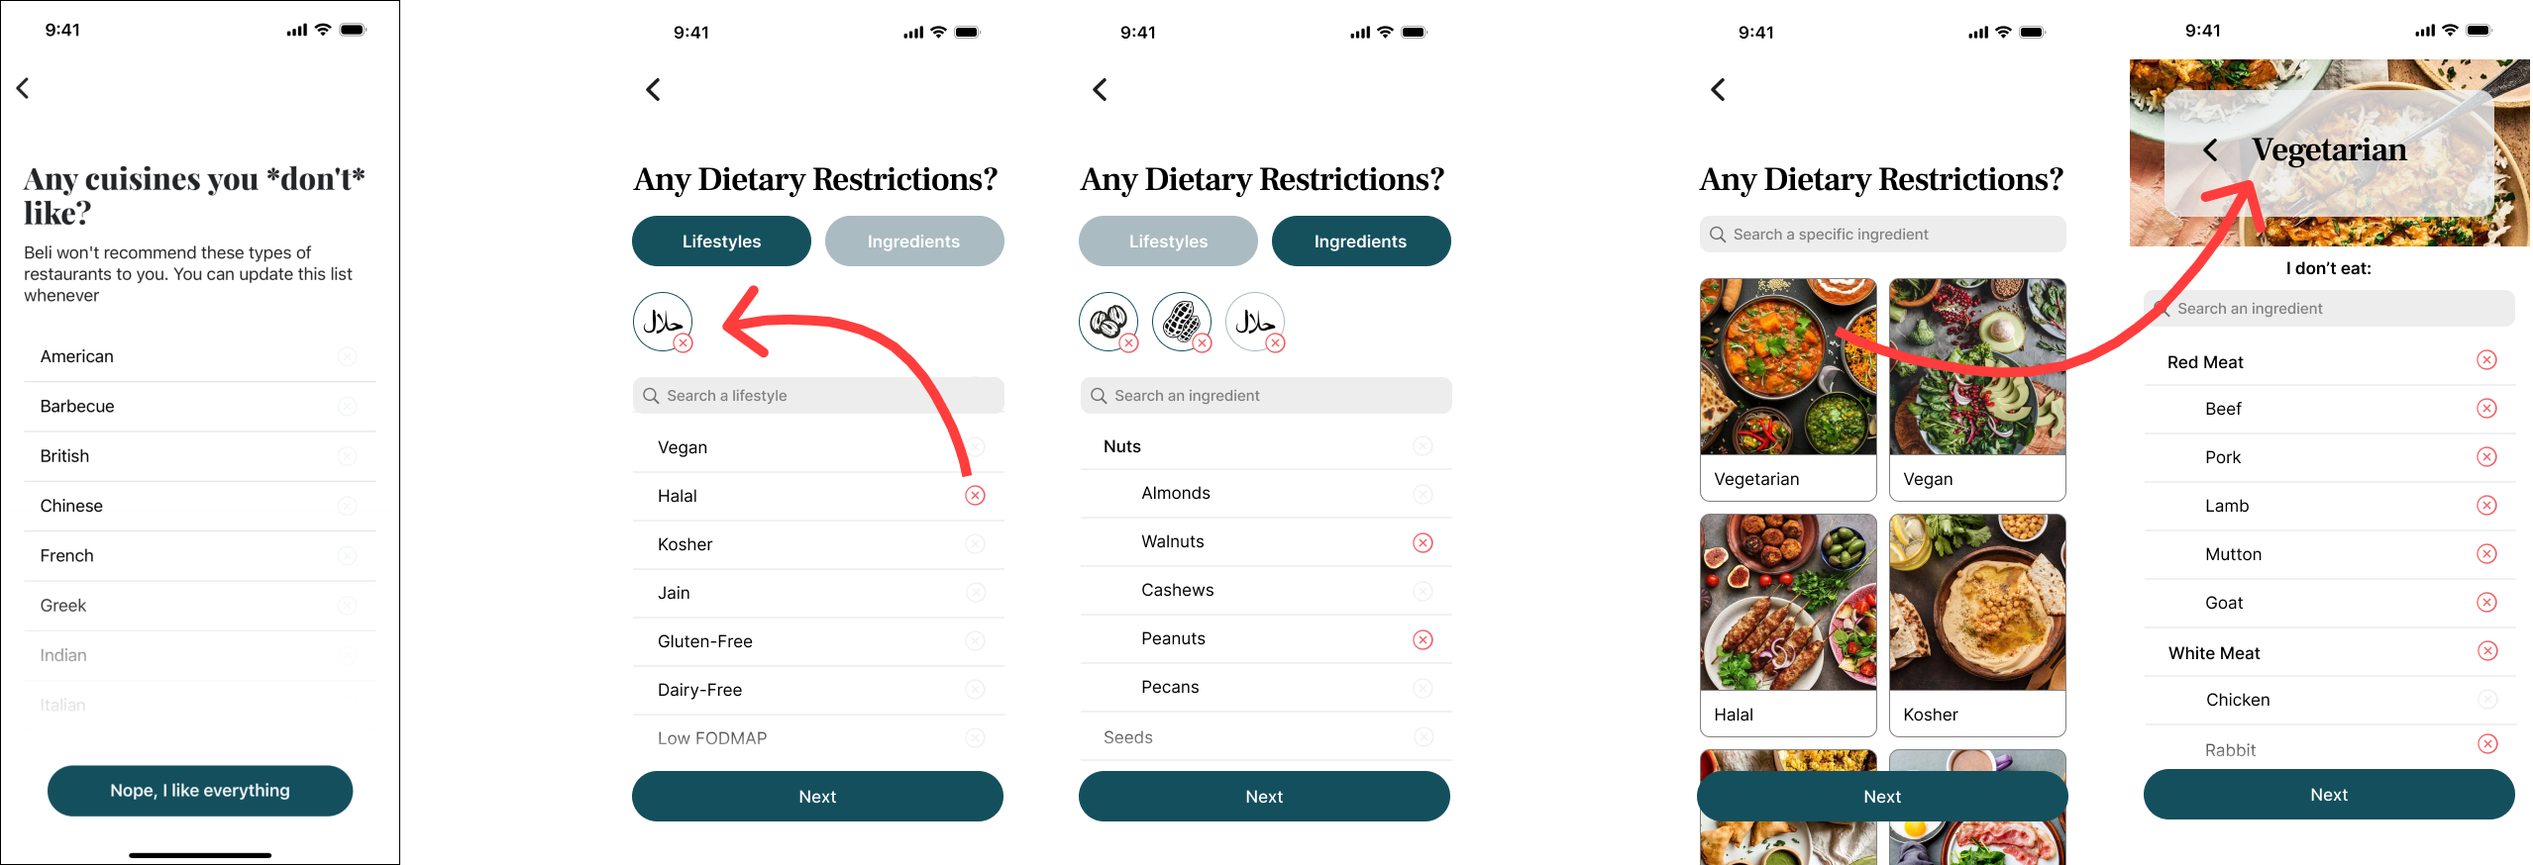
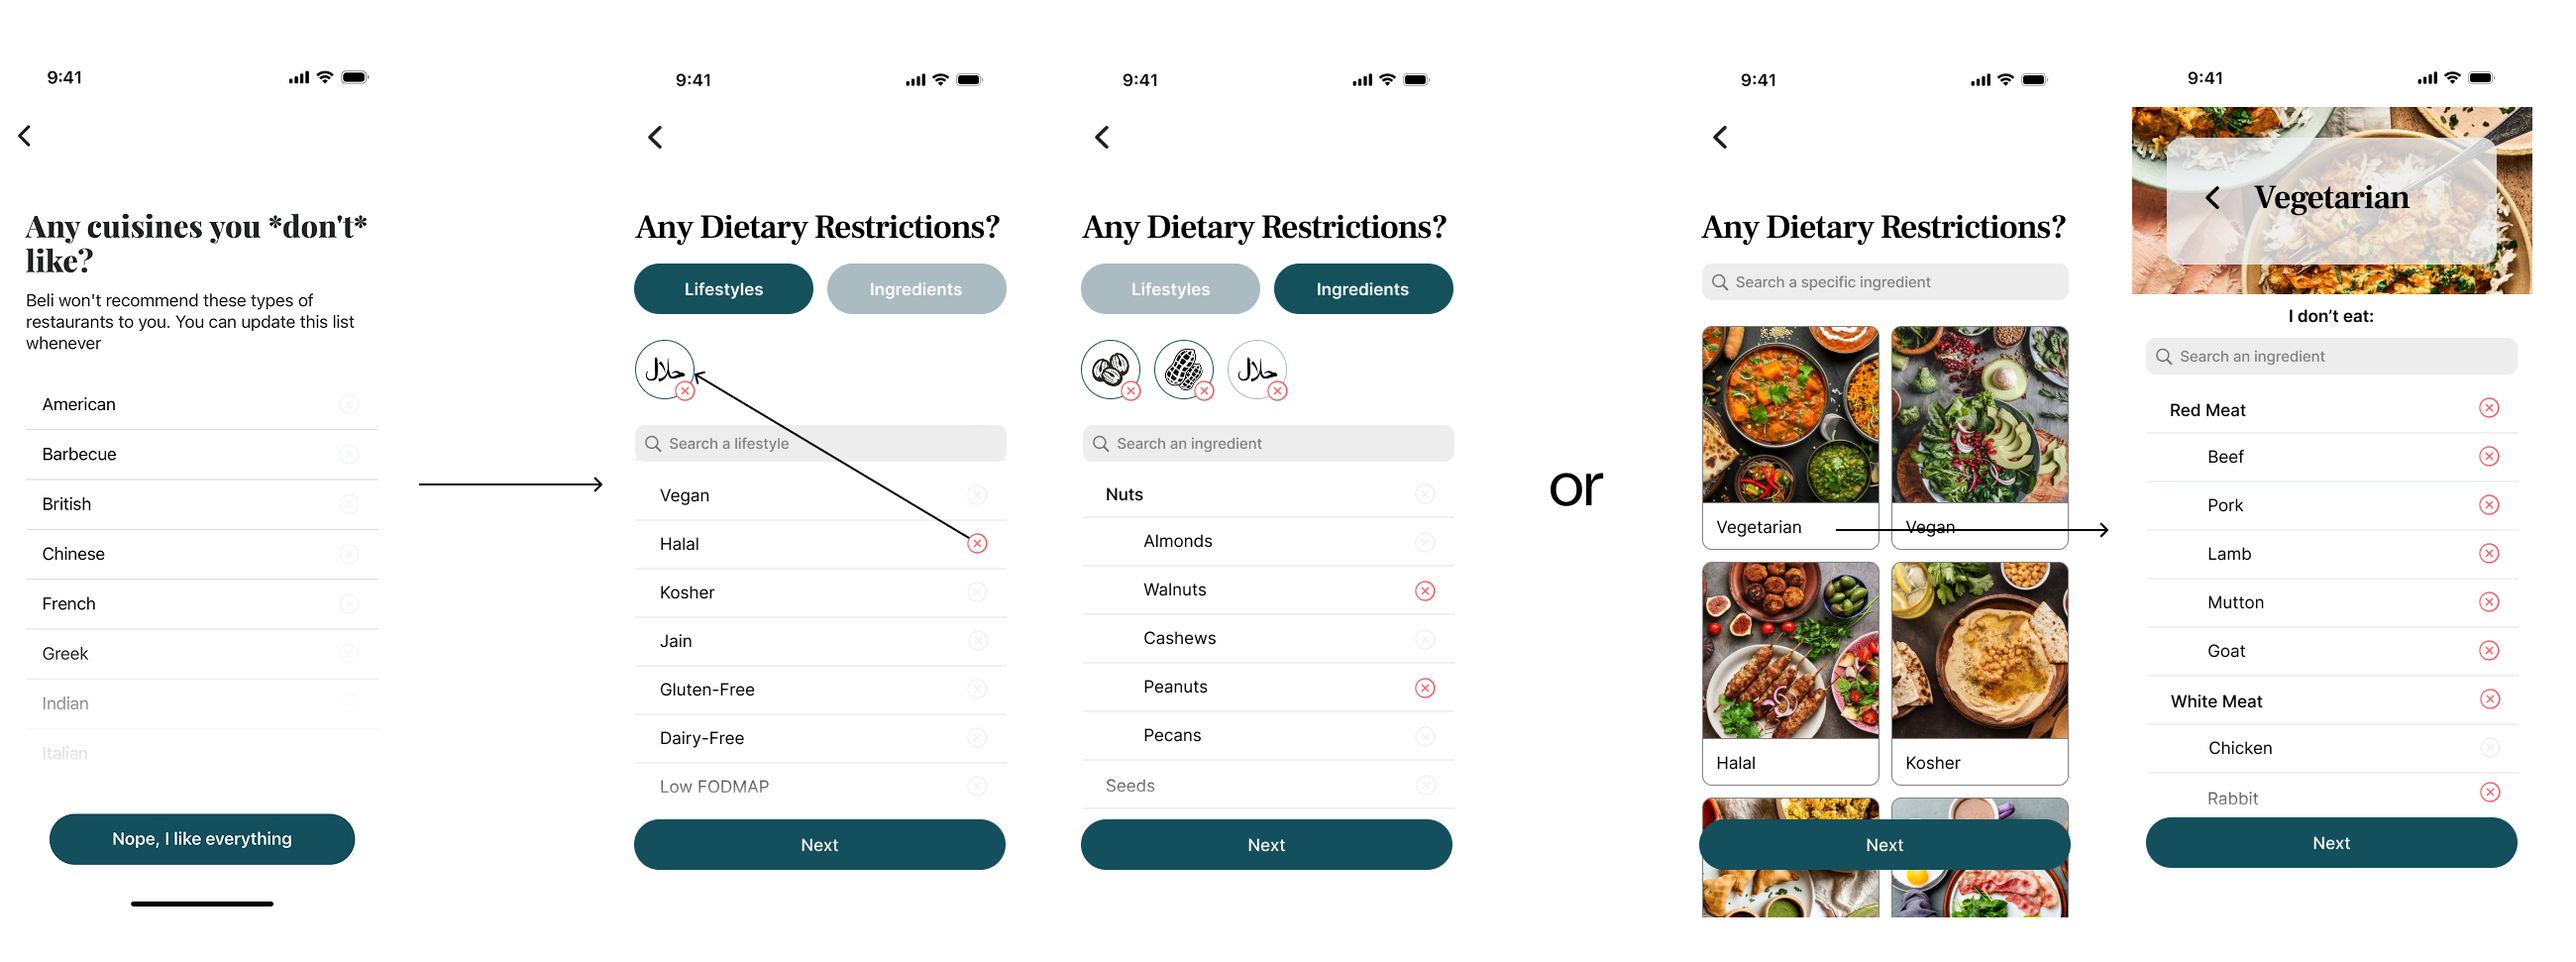
Added new Beli info + case study thumbnails

diff --git a/content/case-studies/beli-eaters-like-you.md b/content/case-studies/beli-eaters-like-you.md
@@ -6,7 +6,7 @@ tags: ["UX Research", "UX Redesign", "Social Impact"]
 description: "Redesigning a food-review app (Beli) and introducing a new feature that helps accommodate users with dietary restrictions better."
 featured: false
 protected: false
-problem: "People with cultural, religious, or medical dietary restrictions who enjoy eating out want to feel confident and included in the restaurant discovery process, yet critical dietary information is consistently unavailable, or unreliable. Bridging this gap is essential because restaurant discovery is a deeply social experience, leaving people with dietary restrictions to navigate real social anxiety and exclusion when choosing safe restaurants."
+problem: "People with cultural or medical dietary restrictions who enjoy eating out want to feel included in the restaurant discovery process, yet critical dietary information is consistently unavailable, leaving people with dietary restrictions to navigate social anxiety and exclusion when choosing safe restaurants."
 solution: "Introducting a new feature- Eaters Like You- and redesigning the onboarding, to optmise how users with dietary restrictions utilise the social discovery aspect of the app."
 # prototypeUrl: "https://www.figma.com/proto/7Tvpolej4DkvDCx36orDMI/Meal-Plantry-Wireframing?node-id=2003-287&t=4GYvCPCBnHcCGS6j-1"
 duration: "Ten Weeks"
@@ -126,20 +126,15 @@ This insight became the foundation for a completely new feature we introduced ca
 
 The feature reimagines restaurant discovery as a community-driven experience centered around dietary compatibility and trust. Instead of only discovering restaurants through general popularity or friend activity, users can now discover recommendations from people whose dietary needs closely align with their own.
 
-<div style="display:grid; grid-template-columns:1fr 1fr; gap:16px; align-items:start; margin:2em 0">
-
+<div style="display:grid; grid-template-columns:1fr 1fr; gap:16px; margin:2em 0">
   <figure style="margin:0">
     <img src="/projects/beli/eaters_like_you_v1.png" alt="Eaters Like You Version One" style="width:100%; height:500px; object-fit:contain; border-radius:10px; display:block" />
     <figcaption style="font-size:14px; opacity:0.6; margin-top:8px; text-align:left">Eaters Like You Version One</figcaption>
   </figure>
-
   <figure style="margin:0">
-    <video autoplay loop muted playsinline style="width:100%; height:500px; border-radius:10px; margin:1.6em 0">
-  <source src="/projects/beli/eaters_like_you_v2.mp4" type="video/mp4" />
-    </video>
+    <img src="/projects/beli/eaters_like_you_v2.png" alt="Eaters Like You Version Two" style="width:100%; height:500px; object-fit:contain; border-radius:10px; display:block" />
     <figcaption style="font-size:14px; opacity:0.6; margin-top:8px; text-align:left">Eaters Like You Version Two</figcaption>
   </figure>
-
 </div>
 
 When entering the page, users are shown profiles of other eaters filtered by shared dietary restrictions and compatibility scores. Additional filters such as city, cuisine preferences, or specific restrictions allow users to narrow recommendations even further. The experience was designed to feel exploratory and social rather than transactional, encouraging users to discover both new restaurants and new people with similar dining experiences.
@@ -168,3 +163,66 @@ Another direction focused more heavily on surfacing recommendations directly fro
   Further down the profile, we introduced a dedicated “Your Dietary Match” section that breaks compatibility into more detailed categories. This section was designed to make trust more explainable and actionable. Instead of presenting compatibility as a vague percentage, users can understand why another person may be a valuable source of recommendations.
   </div>
 </div>
+
+## User Testing & Iteration
+
+After developing two high-fidelity design directions, we returned to the same participants from our initial research phase to evaluate how well our solutions addressed the challenges they had previously described. Since these participants had already shared their experiences navigating dietary restrictions, they were positioned to tell us whether our designs genuinely improved the restaurant discovery process or introduced new complexity.
+
+Participants reviewed both versions of our redesigned onboarding flow, the new "Eaters Like You" experience, and the redesigned user profile pages. We encouraged them to think aloud as they interacted with the prototypes and explain what felt intuitive, confusing, useful, or unnecessary.
+
+Rather than determining a single "winning" prototype, our goal was to understand which design decisions best supported confidence, trust, and ease of use during restaurant discovery.
+
+<figure style="margin:2em 0">
+  <img src="/projects/beli/redefining_user_flows.png" alt="Redefining User Flow" style="width:100%; border-radius:10px"/>
+  <figcaption style="font-size:14px; opacity:0.6; margin-top:8px; text-align:left"> Redefining our user flow </figcaption>
+</figure>
+
+One of the clearest findings from testing was that users valued simplicity during onboarding. While participants appreciated the flexibility and personalization offered by both versions, they consistently gravitated toward the cleaner, more minimalist structure of Version 1.
+
+Participants described Version 1's onboarding as easier to scan, less visually overwhelming, and more efficient for completing a setup task. Two users specifically appreciated being able to view more dietary options at once rather than navigating through large image cards or multiple screens.
+
+At the same time, participants also highlighted opportunities to improve clarity. The term "Lifestyles" was initially confusing for one user, who was unsure whether it referred to cultural diets, medical diets, ethical diets, or something else entirely. Others felt that the selected restriction icons shown during onboarding would be easier to understand if they included written labels alongside the icons.
+
+These comments reinforced an important lesson: 
+> While dietary restrictions can be highly nuanced, users still want the process of communicating those restrictions to feel quick and effortless.
+
+The strongest feedback emerged around the new "Eaters Like You" feature. Across all participants, Version 2 was consistently preferred because it focused on helping users discover restaurants first rather than asking them to discover other users. Participants felt this aligned more closely with their actual goals when opening Beli.
+
+One participant explained that they would be far more likely to use the feature if restaurant recommendations were immediately visible alongside reviews from users with similar dietary restrictions. Another suggested displaying how many similar eaters had reviewed a restaurant because the volume of matching reviews would increase trust and credibility.
+
+This feedback contributed to one of our core research findings: users care less about finding strangers online and more about finding restaurants they can confidently eat at. 
+> Shared dietary experiences only become valuable when they directly help users make dining decisions.
+
+Our final direction thus became clear:
+
+> Create the fastest and most understandable way for users to communicate their dietary needs, then use those preferences to surface trustworthy restaurant recommendations from people with similar dietary experiences.
+
+## Final Designs
+
+### Onboarding
+
+Since our tests revealed that users preferred a simple checklist onboarding process, we updated our flow to better fit this process- rather than using simply a toggle to input both lifestyle and ingredient restrictions, we adapted it into a process that takes users' through both, ensuring that they do not accidentally miss inputting important information. Based on feedback, we also added a confirmation screen that displays selected restrictions using both icons and written labels, making profiles easier to review and reducing ambiguity.
+
+<figure style="margin:2em 0">
+  <img src="/projects/beli/onboarding_before_after.png" alt="Onboarding before-and-after" style="width:100%; border-radius:10px"/>
+  <figcaption style="font-size:14px; opacity:0.6; margin-top:8px; text-align:left"> Onboarding before-and-after </figcaption>
+</figure>
+
+<div style="display:grid; grid-template-columns:1fr 1fr; gap:32px; align-items:center; margin:2em 0">
+  <div>
+    <img src="/projects/beli/toggles.png" alt="Toggles" style="width:100%; border-radius:10px" />
+  </div>
+  <div>
+    <p>We also spent quite a bit of time debating the best way to display our Lifestyle/Ingredient toggle, keeping in mind that it would need to be a feature that looked both a part of the onboarding process, as well as an interactive element that users could actively switch between. While our original version had pill icons, one users mentioned it could be a little confusing (especially for older users) who wouldn't necessarily think to toggle between the two. We explored versions that incorporated numbered labels ("1. Lifestyles" and "2. Ingredients"), which more clearly communicated that users were expected to complete both sections as part of the onboarding process. We also experimented with connected step indicators, borrowing a pattern seen in many multi-step forms.</p>
+    <p>In the end, we ended up using a simple numbered label to convey the steps of the process, while retaining the color differences to help more tech-savvy users understand that the toggle was interactive. </p>
+  </div>
+</div>
+
+### Eaters Like You
+
+Since Eaters Like You was a whole new feature, our test users did not have many bases of comparison to offer us exhaustive insight on improvements. So, we honed in on really improving the specifics of our Eaters Like You feed. Based on user inputs, we increased the size of our dietary restriction icons in user descriptions, and also highlighted keywords in each of their reviews so they were more salient on quick glances.
+
+<figure style="margin:2em 0">
+  <img src="/projects/beli/ely_before_after.png" alt="Eaters Like You before-and-after" style="width:100%; border-radius:10px"/>
+  <figcaption style="font-size:14px; opacity:0.6; margin-top:8px; text-align:left"> Eaters Like You before-and-after </figcaption>
+</figure>

diff --git a/content/case-studies/vita-virdi-squeeze-page.md b/content/case-studies/vita-virdi-squeeze-page.md
@@ -2,7 +2,7 @@
 title: "Vita Virdi Squeeze Page"
 date: "2025-06-17"
 tags: ["UX Design", "Conversion Optimisation", "Hi-Fi Design"]
-thumbnail: "/projects/vita-virdi/vita_virdi_thumb.png"
+thumbnail: "/projects/vita-virdi/vita_virdi_thumbnail.png"
 description: "Designing a high-converting squeeze page for a wellness brand, iterating from stock-heavy imagery to bold, minimal contrast-driven design."
 featured: true
 protected: true

diff --git a/content/case-studies/bioluminescence.md b/content/case-studies/bioluminescence.md
@@ -2,7 +2,7 @@
 title: "Bioluminescence"
 date: "2025-04-01"
 tags: ["Worldbuilding", "VR/XR", "Level Design"]
-thumbnail: "/projects/bioluminescence/water1.avif"
+thumbnail: "/projects/bioluminescence/thumbnail.png"
 description: "Building a virtual reality environment on Unity, optimised for MetaQuest."
 featured: false
 protected: false

diff --git a/content/case-studies/apocabear.md b/content/case-studies/apocabear.md
@@ -2,7 +2,7 @@
 title: "Apocabear Product Design"
 date: "2025-04-01"
 tags: ["UX Design", "UX Research", "Social Impact"]
-thumbnail: "/projects/apocabear/ap_mascot.png"
+thumbnail: "/projects/apocabear/thumbnail.png"
 description: "Communicating complicated risks in a changing fire landscape."
 featured: true
 protected: false

diff --git a/content/case-studies/neocell-ux-review.md b/content/case-studies/neocell-ux-review.md
@@ -2,7 +2,7 @@
 title: "NeoCell UX Research and Review"
 date: "2025-06-22"
 tags: ["UX Research"]
-thumbnail: "/projects/neocell/Neocell_Logo.png"
+thumbnail: "/projects/neocell/neocell_thumbnail.png"
 description: "Conducting a user-experience evaluation on an e-commerce website."
 featured: true
 protected: true
